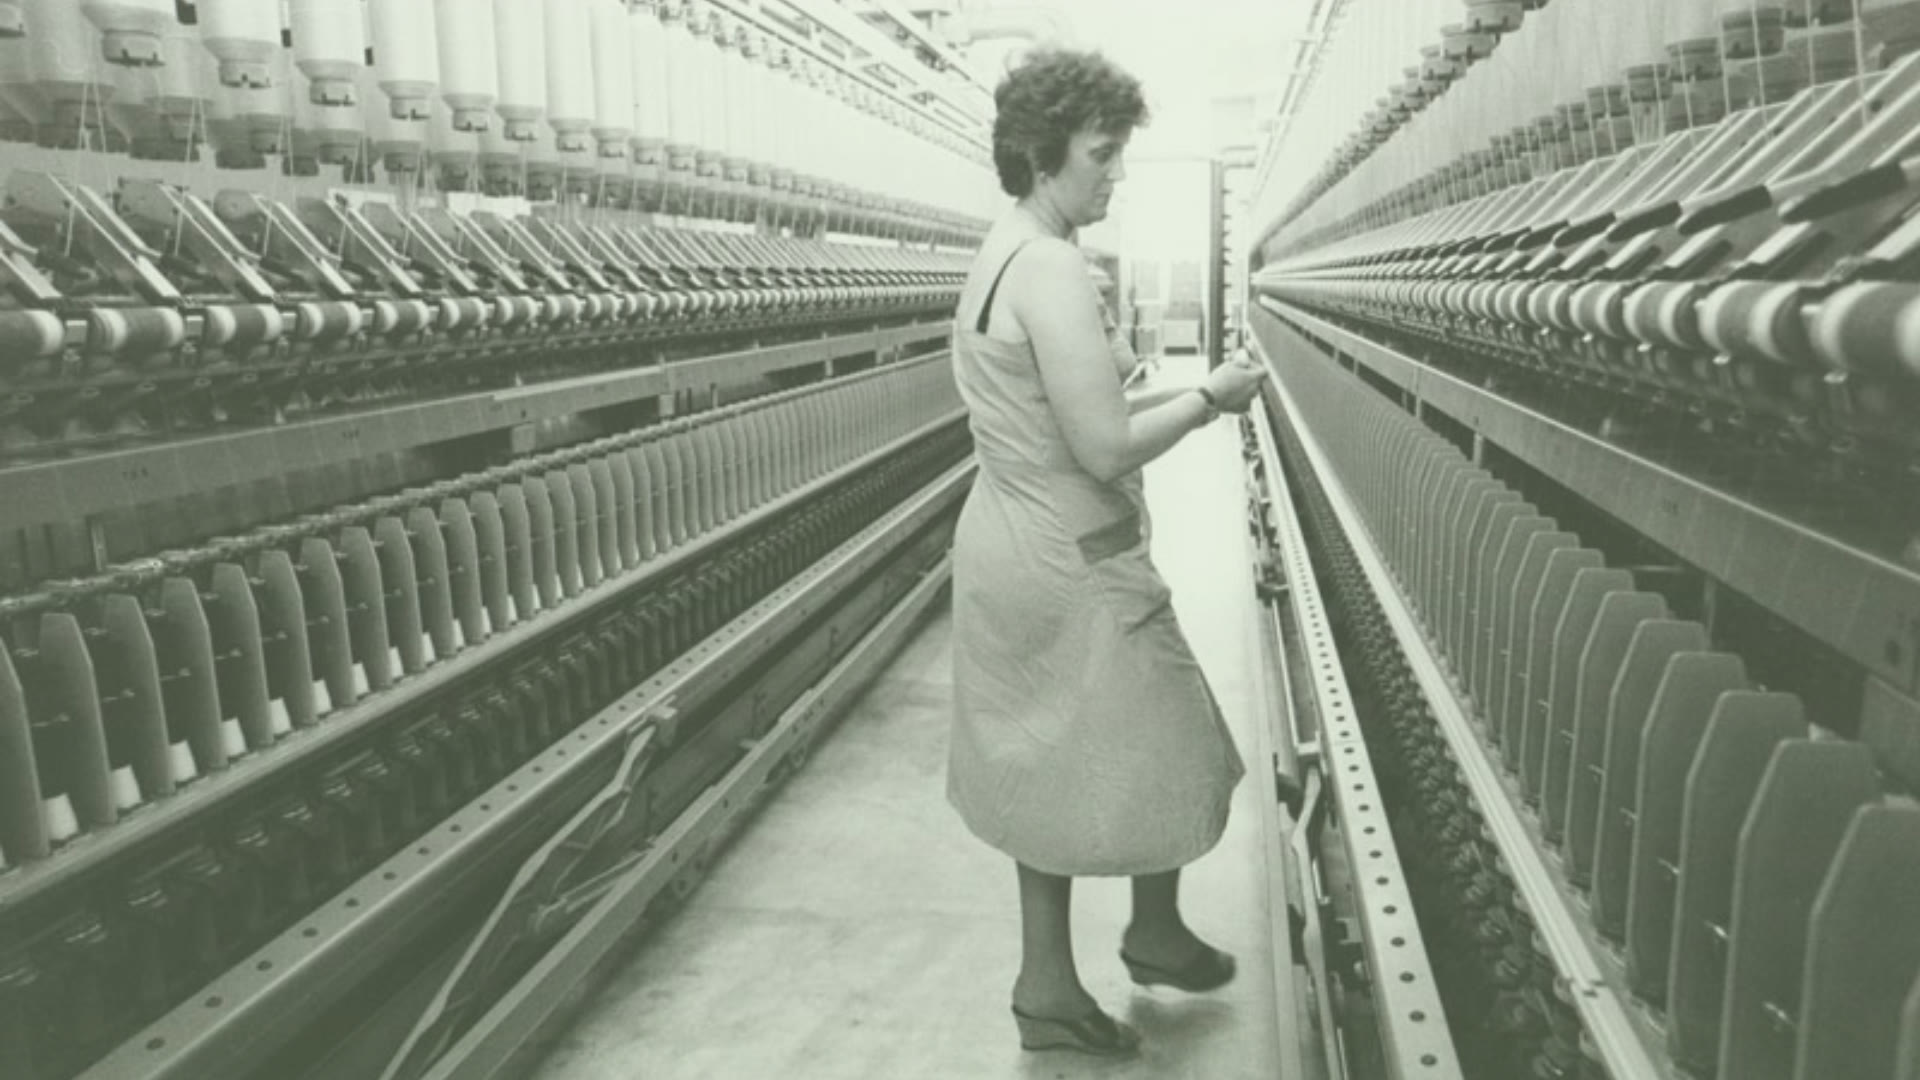
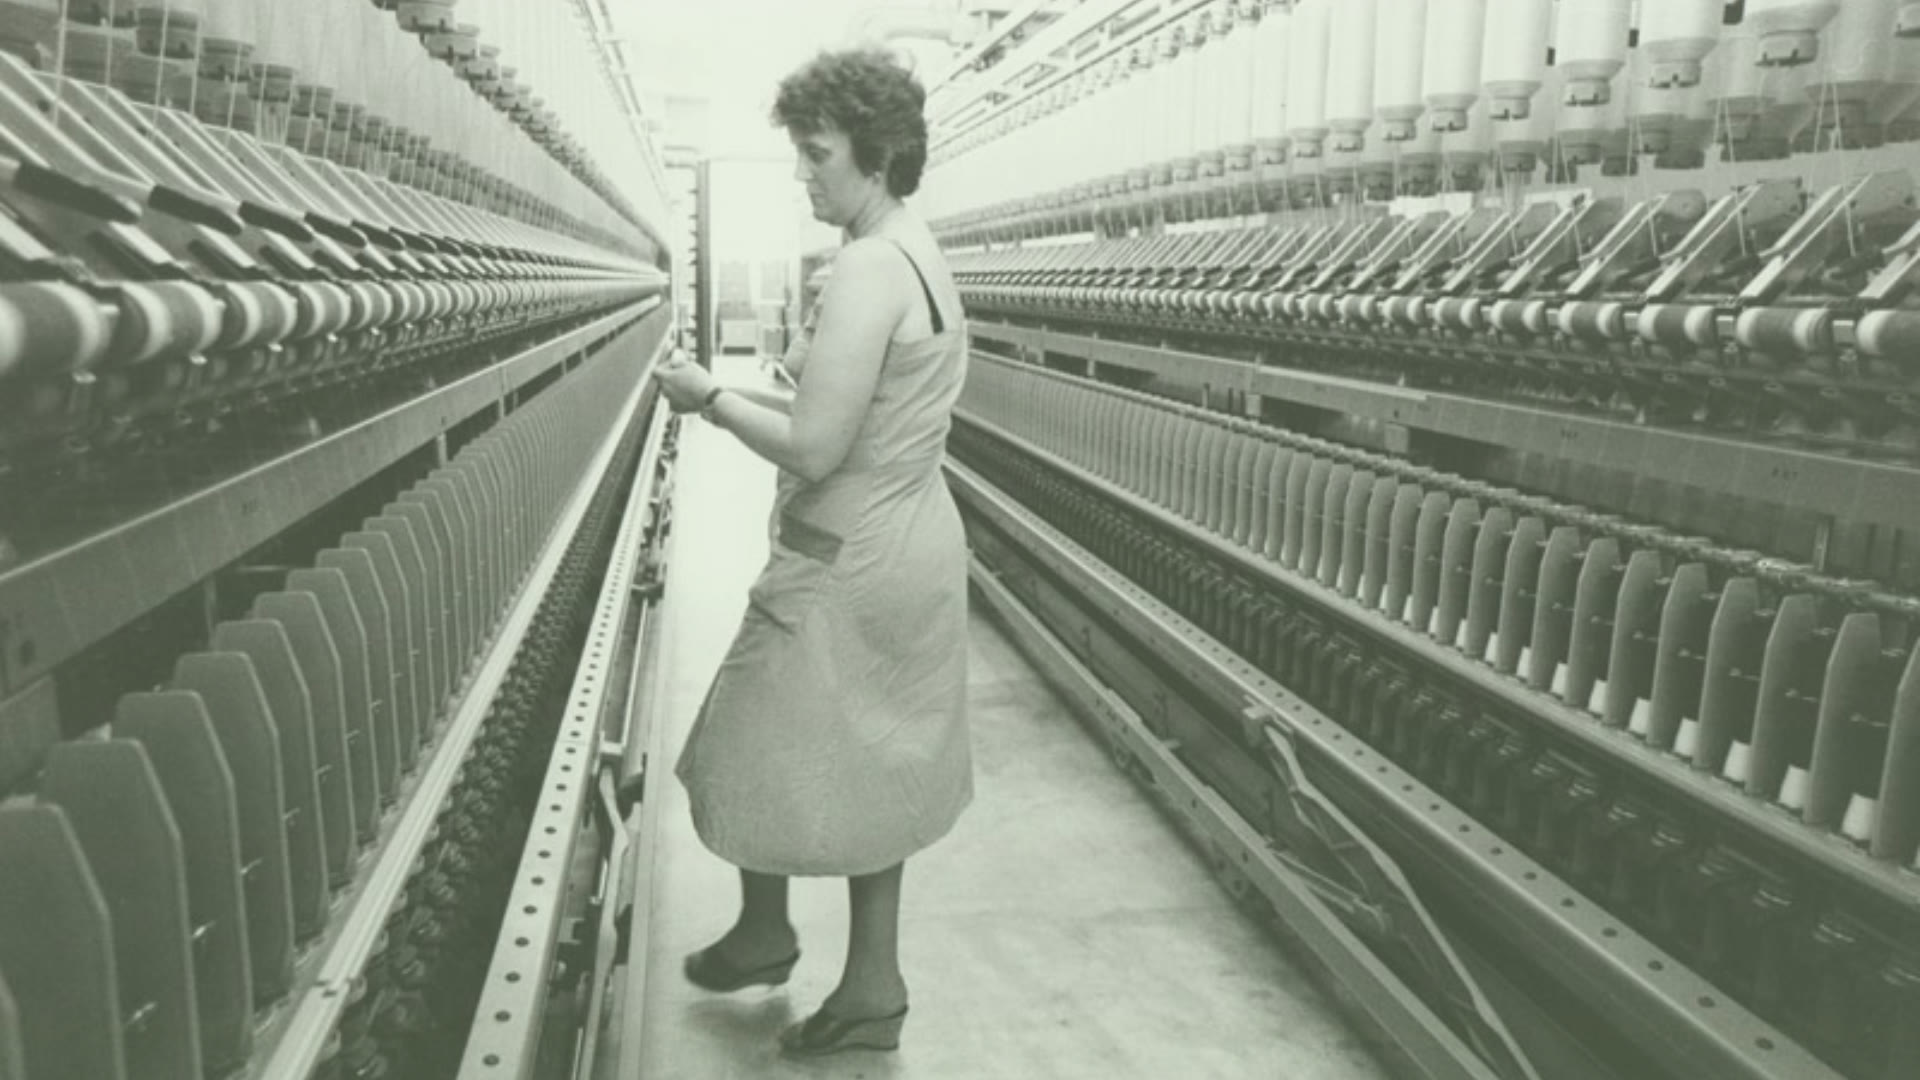
fix: Herobild spiegeln, die Frau schaut nach links

diff --git a/index.html b/index.html
@@ -17,7 +17,7 @@
   <meta property="og:title" content="Historischer Verein Winterthur">
   <meta property="og:description" content="Träger von Museum Schaffen, Museum Lindengut und Schloss Mörsburg. Veranstaltungen, Mitgliedschaft und Stadtgeschichte — seit 1874.">
   <meta property="og:url" content="https://www.hvwinterthur.ch/">
-  <meta property="og:image" content="images/hero-textilfabrik.jpg">
+  <meta property="og:image" content="images/hero-textilfabrik.jpg?v=2">
   <meta name="twitter:card" content="summary_large_image">
   <meta name="theme-color" content="#1a1a1a">
   <link rel="icon" href="images/favicon.ico" sizes="any">
@@ -143,7 +143,7 @@
     <section class="hvw-hero" aria-labelledby="hero-brand">
       <div class="hvw-hero__media">
         <img
-          src="images/hero-textilfabrik.jpg"
+          src="images/hero-textilfabrik.jpg?v=2"
           alt="Frau an Spinnmaschinen in einer Textilfabrik"
           width="1920"
           height="1080"
